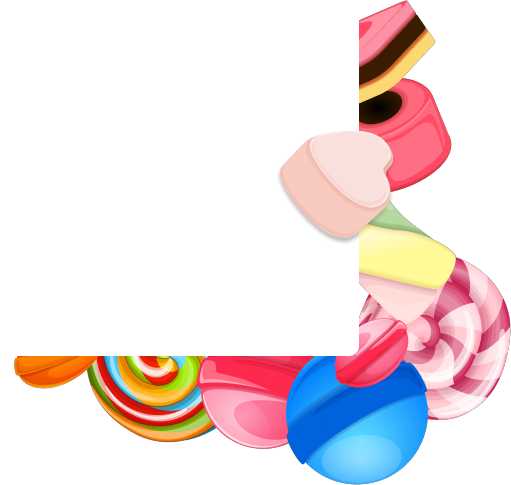
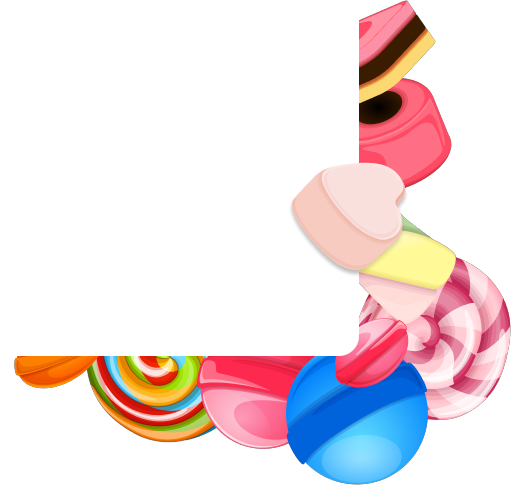
withdraw success and error styles, udpate graphics and border-radius on popups

Changed region(s): [[0.5284, 0.2474, 0.7926, 0.5876], [0.6751, 0.7113, 0.7045, 0.7423]]

diff --git a/src/components/Popup/styles.module.scss b/src/components/Popup/styles.module.scss
@@ -32,7 +32,9 @@
     pointer-events: auto;
     background-clip: padding-box;
     outline: 0;
-    border-radius: 6px;
+    border-radius: 20px;
+    border-bottom-right-radius: 0;
+    border-top-left-radius: 0;
     background: linear-gradient(
       163.46deg,
       $colorWhite -21.15%,
@@ -54,7 +56,7 @@
       content: '';
       position: absolute;
       inset: 15px;
-      border-radius: 4px;
+      border-radius: 10px;
       border: 1px solid $colorPopBorder;
       z-index: 0;
     }

diff --git a/src/components/WithdrawalSuccessPopup/styles.module.scss b/src/components/WithdrawalSuccessPopup/styles.module.scss
@@ -5,7 +5,6 @@
   align-items: center;
   justify-content: center;
   flex-direction: column;
-  padding: 35px;
 
   .logo {
     height: 60px;
@@ -16,6 +15,7 @@
     font-weight: bold;
     font-size: 20px;
     margin-top: 20px;
+    text-align: center;
   }
 
   .subtitle {
@@ -40,8 +40,8 @@
 
     .info {
       font-size: 12px;
-      color: $colorPrimary;
-      opacity: 0.4;
+      color: $colorBlack;
+      opacity: 0.8;
       padding-top: 10px;
     }
   }

diff --git a/src/components/WithdrawalErrorPopup/styles.module.scss b/src/components/WithdrawalErrorPopup/styles.module.scss
@@ -5,8 +5,6 @@
   align-items: center;
   justify-content: center;
   flex-direction: column;
-  padding: 35px;
-  background-color: $colorWhite;
   border-radius: 12px;
 
   .logo {
@@ -81,7 +79,7 @@
 
   .keepGoing {
     display: block;
-    margin: 0 auto 15px;
+    margin: 0 auto;
     width: 100%;
     max-width: 460px;
     height: 60px;

diff --git a/src/components/WalletBuyWfairPopup/styles.module.scss b/src/components/WalletBuyWfairPopup/styles.module.scss
@@ -61,13 +61,13 @@
   justify-content: center;
 
   @media (max-width: $screen-md) {
-    margin-left: 0px;
-    margin-right: 0px;
     font-size: 11px;
     line-height: 14px;
   }
   & > div > div {
-    padding: 8px 22px !important;
+    @media (min-width: $screen-xs) {
+      padding: 8px 22px !important;
+    }
   }
 }
 

diff --git a/src/components/WalletBuyWfairPopup/withdraw.module.scss b/src/components/WalletBuyWfairPopup/withdraw.module.scss
@@ -85,11 +85,8 @@
 
 .withdrawContainer {
   width: 100%;
-  margin-top: 10px;
   display: flex;
   justify-content: center;
-  // padding-top: 20px;
-  padding-bottom: 20px;
   flex-direction: column;
 
   h2 {
